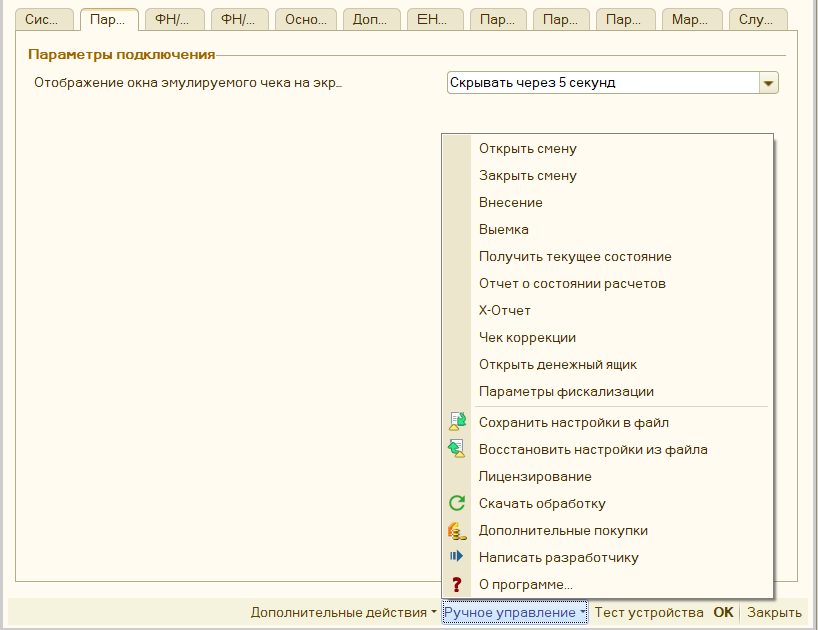
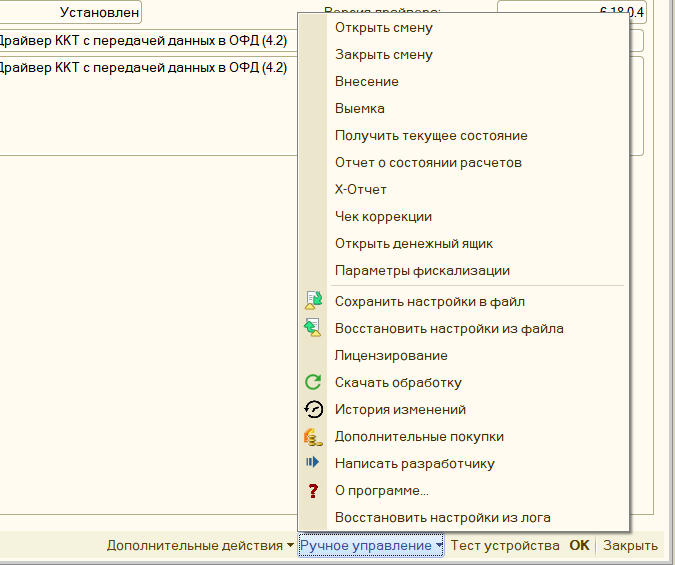
3.97

Changed region(s): [[0.0, 0.0, 1.0, 1.0]]

diff --git a/docs/parameters_description.md b/docs/parameters_description.md
@@ -288,6 +288,8 @@ hide:
 
 **«Скачать обработку»** - открывает окно, где можно скачать последнюю доступную версию программы.
 
+**«История изменений»** - получает и выводит на экран изменения, что произошли с момент выпуска текущей версии обработки.
+
 **«Дополнительные покупки»** - открывает окно, где можно приобрести дополнительные лицензии, или продлить тех поддержку.
 
 **«Написать разработчику»** - открывает форму, где можно отправить [письмо разработчику](licensing.md#написать-разработчику) (не используя почтовую рассылку), сообщить об ошибке, либо высказать пожелания о доработке.
